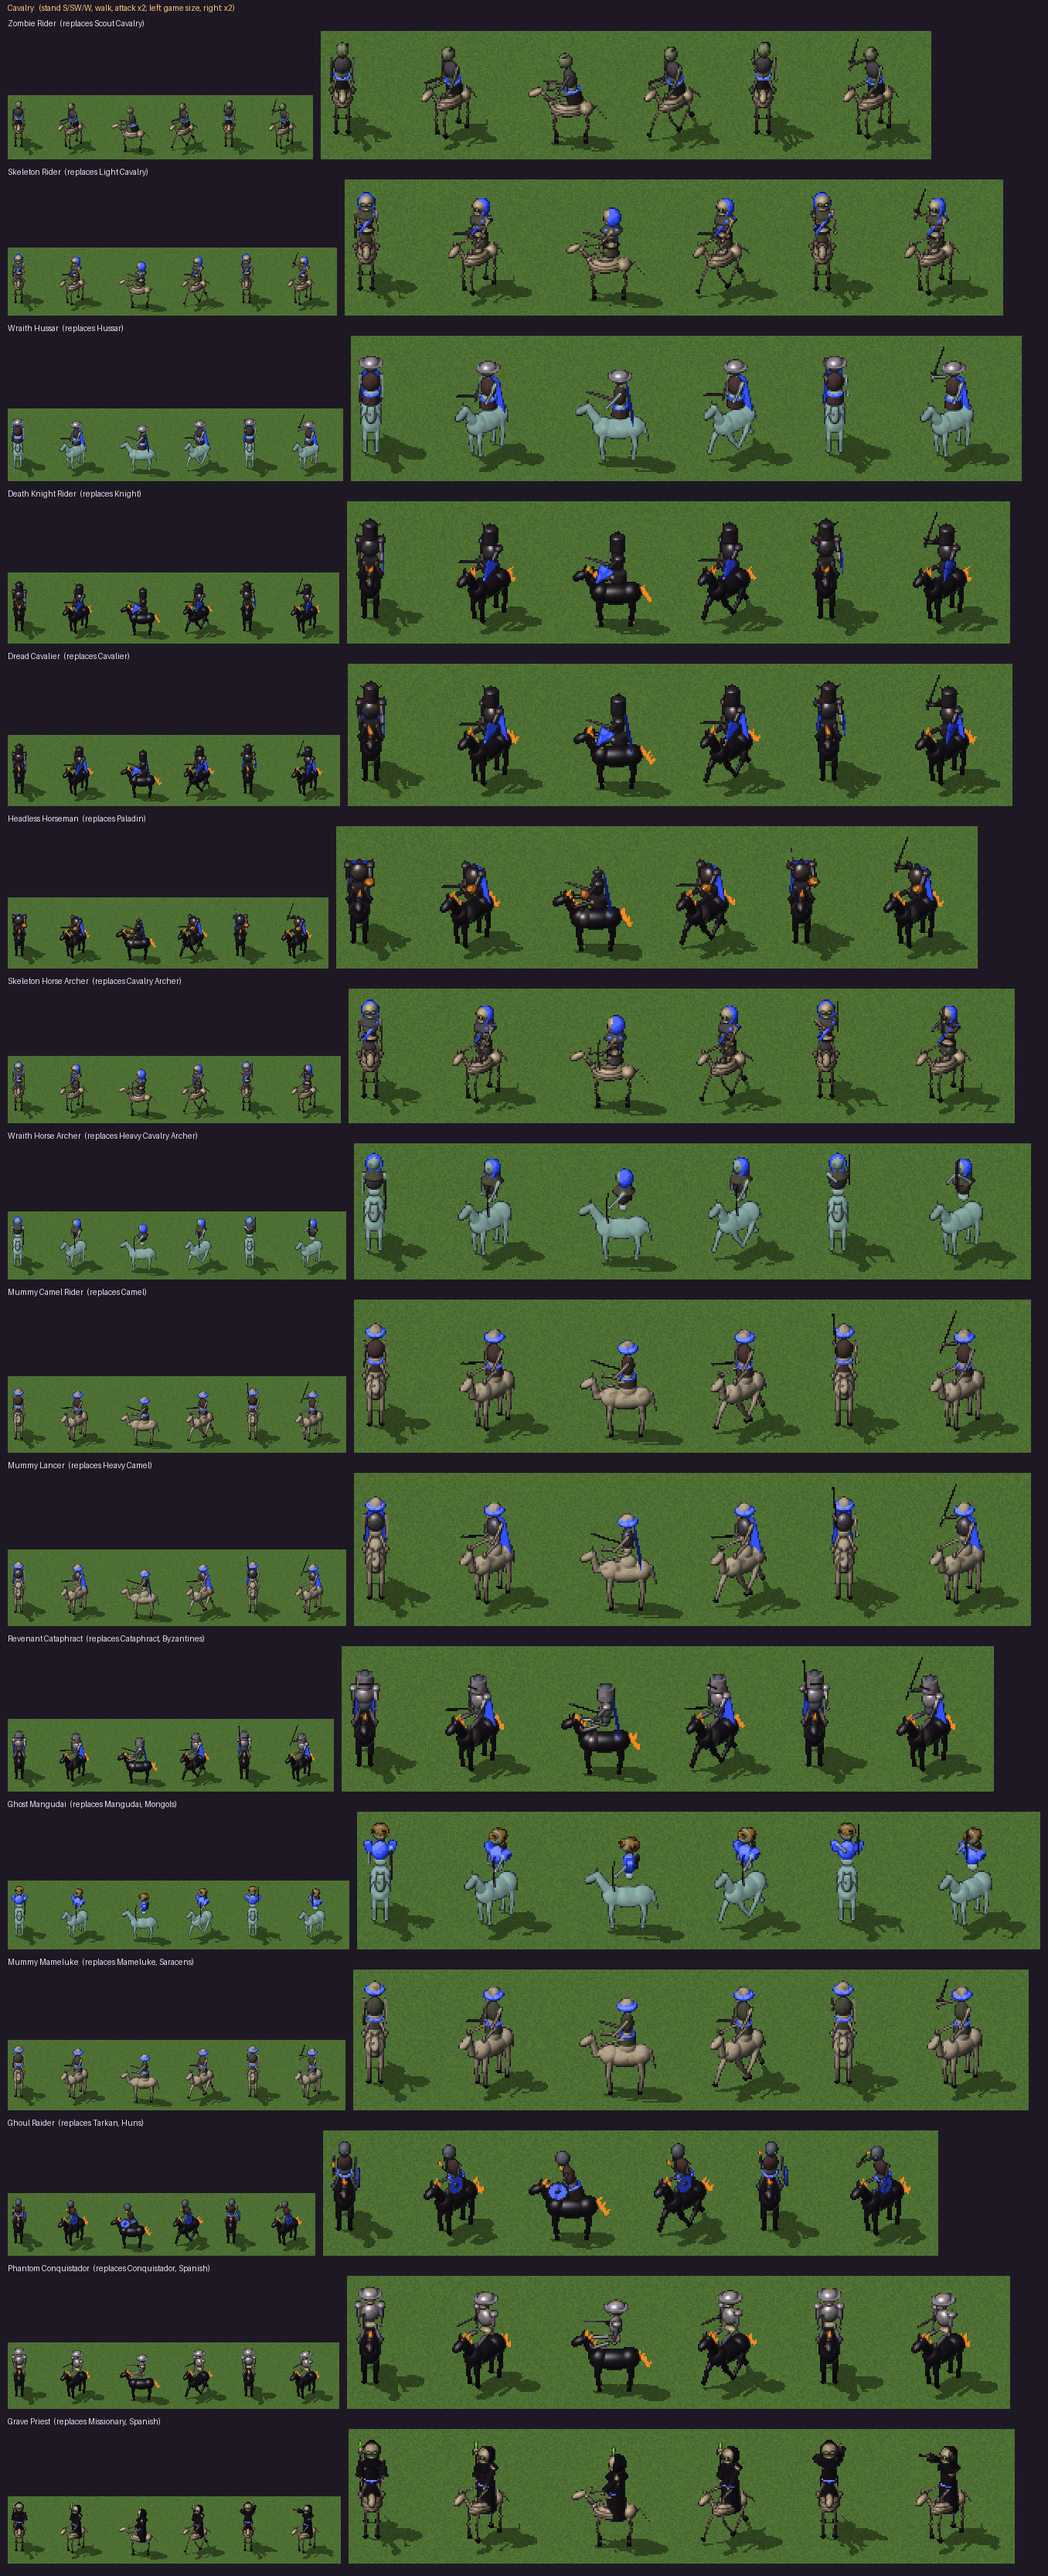
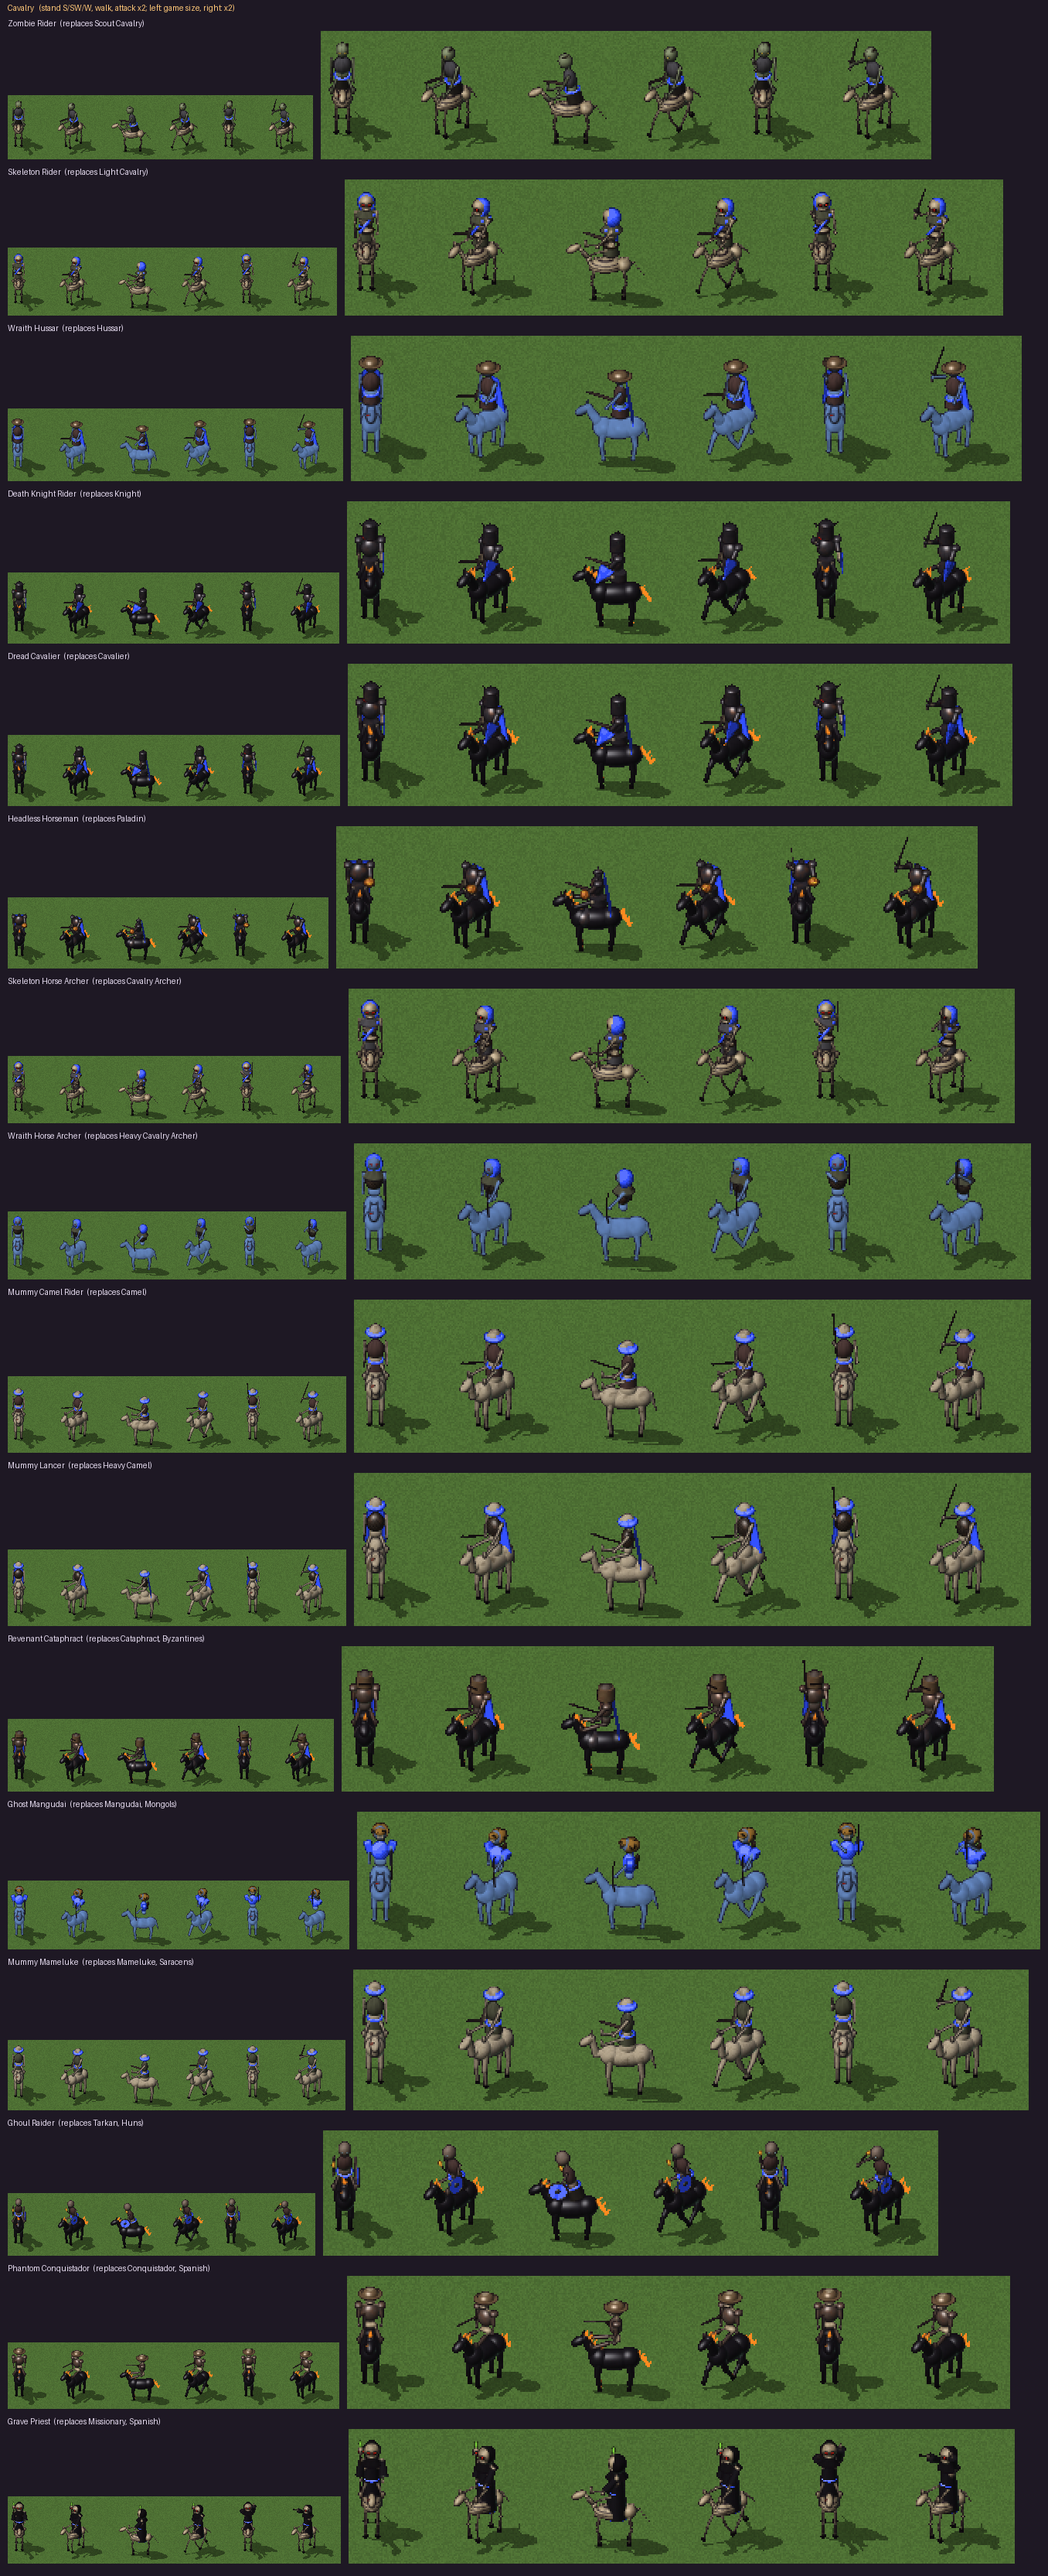
Drop the silver from the units and give them red eyes instead of green
The player found the silvery colours robotic. Plate armour is now dark,
rusted iron, helmets tarnished bronze, chainmail and blades rusty. Skins
that looked silver in the night are human dead-flesh tones: the Vampire
Lord a warm pale face (no shine), ghouls pallid, the draugr a leathery
corpse, the jiangshi yellowed. Ghosts, the Banshee and the ghost horses are
a spectral blue instead of silvery white; the hot-rod hearse's chrome is
brass.

Every eye that glowed green now glows red: skeletons, mummies, ghosts, bone
horses, mummy camels, dire wolves and the skeletal stag, the gargoyle
bombard, the skulls on the ships and the Bone Dragon's skull.

diff --git a/tools/aoh/creatures.py b/tools/aoh/creatures.py
@@ -123,7 +123,12 @@ def spectral(length: float, seed=0, top=P.hexrgb("#dcf0fc"), bottom=P.hexrgb("#3
     return S.Material(color=color, glow=glow, vivid=0.85)
 
 
-def chainmail(base=P.hexrgb("#7a7a84"), seed=0) -> S.Material:
+PLATE = P.hexrgb("#5e4a3e")  # armour: dark, rusted iron (the player asked for no silver)
+BRONZE = P.hexrgb("#7a5c36")  # helmets: tarnished bronze
+BLADE = P.hexrgb("#6a5e54")  # blades: dull, rusty iron
+
+
+def chainmail(base=P.hexrgb("#5e4c3c"), seed=0) -> S.Material:
     base = np.asarray(base, float)
 
     def color(look):
@@ -176,7 +181,7 @@ class Body:
     arms_out: float = 0.0  # degrees the arms reach forward at rest (zombies, jiangshi)
     floating: bool = False  # no legs (ghosts, banshees)
     skin: Optional[S.Material] = None
-    eye: tuple = (0.61, 1.0, 0.42)  # the eyes' glow colour
+    eye: tuple = (1.0, 0.14, 0.06)  # the eyes' glow colour
     size: float = 1.0  # the head's size
     sculpted: bool = False  # a skeleton's skull modelled bone by bone (brow, cheekbones, sockets), not one ball
 
@@ -184,21 +189,21 @@ class Body:
 SKIN = {
     "zombie": lambda s: replace(flesh(P.hexrgb("#a2b886"), P.hexrgb("#5e6e48"), s, wounds=0.6, stitches=True),
                                 vivid=0.7),
-    "ghoul": lambda s: flesh(P.hexrgb("#8090a0"), P.hexrgb("#3e4656"), s, wounds=0.3),
+    "ghoul": lambda s: replace(flesh(P.hexrgb("#b09a84"), P.hexrgb("#5a4a40"), s, wounds=0.3), vivid=0.55),
     "imp": lambda s: flesh(P.hexrgb("#8a2a22"), P.hexrgb("#3a0e10"), s),
     "werewolf": lambda s: fur(P.hexrgb("#6a5a4a"), P.hexrgb("#2a221c"), s),
     "mummy": lambda s: bandage(seed=s),
-    "vampire": lambda s: flesh(P.hexrgb("#d8d0d8"), P.hexrgb("#8a7a90"), s),
+    "vampire": lambda s: replace(flesh(P.hexrgb("#ead2c2"), P.hexrgb("#9a746a"), s), shine=0.0, vivid=0.65),
     "batman": lambda s: fur(P.hexrgb("#6a564c"), P.hexrgb("#2a1e1c"), s),
-    "draugr": lambda s: flesh(P.hexrgb("#6e7c86"), P.hexrgb("#2e363e"), s, wounds=0.4),
-    "jiangshi": lambda s: flesh(P.hexrgb("#a8b8a4"), P.hexrgb("#5a6858"), s),
-    "ghost": lambda s: ghostly(seed=s),
-    "banshee": lambda s: ghostly(P.hexrgb("#d6e4ee"), seed=s),
+    "draugr": lambda s: replace(flesh(P.hexrgb("#7a6a5e"), P.hexrgb("#2e2420"), s, wounds=0.4), vivid=0.55),
+    "jiangshi": lambda s: replace(flesh(P.hexrgb("#c4b494"), P.hexrgb("#6a5c48"), s), vivid=0.55),
+    "ghost": lambda s: replace(ghostly(P.hexrgb("#7eaaee"), seed=s), vivid=0.9),
+    "banshee": lambda s: replace(ghostly(P.hexrgb("#8ab2f0"), seed=s), vivid=0.9),
     "phantom": lambda s: replace(ghostly(P.hexrgb("#d4ecf8"), seed=s), vivid=0.85),
 }
-EYES = {"skeleton": (0.61, 1.0, 0.42), "zombie": (1.0, 0.85, 0.3), "ghoul": (0.75, 0.95, 1.0),
-        "imp": (1.0, 0.75, 0.15), "werewolf": (1.0, 0.7, 0.1), "mummy": (0.55, 1.0, 0.45), "vampire": (1.0, 0.15, 0.1),
-        "batman": (1.0, 0.3, 0.15), "calavera": (1.0, 0.6, 0.15), "ghost": (0.4, 1.0, 0.95),
+EYES = {"skeleton": (1.0, 0.14, 0.06), "zombie": (1.0, 0.85, 0.3), "ghoul": (0.75, 0.95, 1.0),
+        "imp": (1.0, 0.75, 0.15), "werewolf": (1.0, 0.7, 0.1), "mummy": (1.0, 0.14, 0.06), "vampire": (1.0, 0.15, 0.1),
+        "batman": (1.0, 0.3, 0.15), "calavera": (1.0, 0.6, 0.15), "ghost": (1.0, 0.14, 0.06),
         "jiangshi": (0.9, 0.95, 0.85), "knight": (1.0, 0.12, 0.05), "draugr": (0.45, 0.8, 1.0),
         "banshee": (0.85, 0.95, 1.0), "phantom": (1.0, 0.14, 0.06)}
 
@@ -407,7 +412,7 @@ def _armour_shapes(b: Body, g: Gear, seed: int) -> list:
     sh = b.shoulder
     out = []
     if g.armour == "plate":
-        plate = P.metal(P.hexrgb("#3a363e") if b.kind == "knight" else P.hexrgb("#8e8e98"), rust=0.6, seed=seed)
+        plate = P.metal(P.hexrgb("#3a363e") if b.kind == "knight" else PLATE, rust=0.75, seed=seed)
         out += [S.ball((0, 0.4, sh - 3.3), (4.0, 3.0, 4.2), plate).clip((0, 0, -1), 3.6),
                 S.ball((b.arm_x + 0.3, 0, sh + 0.2), (2.0, 2.2, 1.5), plate),
                 S.ball((-b.arm_x - 0.3, 0, sh + 0.2), (2.0, 2.2, 1.5), plate)]
@@ -502,7 +507,7 @@ def _cloth_shapes(b: Body, g: Gear, seed: int) -> list:
             out.append(m)
         return out
     if g.cloth == "dress":
-        gown = ghostly(P.hexrgb("#c8d8e0"), seed + 2) if b.kind in ("ghost", "banshee") else drab
+        gown = replace(ghostly(P.hexrgb("#7aa6ea"), seed + 2), vivid=0.9) if b.kind in ("ghost", "banshee") else drab
         return [S.rod((0, 0, sh + 0.2), (0, 0, -1.0), 3.0, gown, 6.4), _belt(b, h + 2.0, True, seed)]
     if g.cloth == "wraps":  # a long Qing robe, dark, a gold hem, the owner's colour in the sash
         dark = cloth(P.hexrgb("#38586a"), seed=seed)
@@ -515,7 +520,7 @@ def _cloth_shapes(b: Body, g: Gear, seed: int) -> list:
 def _helmet_shapes(b: Body, kind: str, seed: int) -> list:
     n = b.neck
     top = n + 3.6 * b.size
-    iron = P.metal(P.hexrgb("#9a9aa6"), rust=0.5, seed=seed + 3)
+    iron = P.metal(BRONZE, rust=0.45, seed=seed + 3)
     dark_iron = P.metal(P.hexrgb("#4a4650"), rust=0.4, seed=seed + 3)
     if kind == "kettle":
         return [S.ball((0, 0.3, top + 0.4), (3.7, 3.9, 2.8), iron).clip((0, 0, -1), -0.2),
@@ -602,7 +607,7 @@ def _forward(up_deg=20.0):
 
 def _blade(length=11.0, width=0.85, m=None, up_deg=20.0, start=1.6) -> list:
     d, up = _forward(up_deg)
-    m = m or P.metal(P.hexrgb("#9696a2"), rust=0.6)
+    m = m or P.metal(BLADE, rust=0.7)
     base = d * start
     tip = base + d * length
     t = 0.22
@@ -627,7 +632,7 @@ def _shaft(length, back=4.0, up_deg=20.0, r=0.42, m=None) -> list:
 
 def weapon(name: str, seed: int = 0) -> list:
     """What a hand holds, with the grip at the origin, pointing forward (+y) and a little up."""
-    steel = P.metal(P.hexrgb("#9696a2"), rust=0.6, seed=seed)
+    steel = P.metal(BLADE, rust=0.7, seed=seed)
     wood = P.wood(P.hexrgb("#4e3626"), P.hexrgb("#2a1a12"), along=2)
     if name == "sword":
         return _blade(11.0) + _hilt()
@@ -643,7 +648,7 @@ def weapon(name: str, seed: int = 0) -> list:
                        glow=runes, shine=0.8, gloss=30)
         return _blade(17.0, 1.1, m) + _hilt(guard=3.4)
     if name == "katana":
-        return _blade(14.0, 0.55, P.metal(P.hexrgb("#c8ccd4"), seed=seed, shine=0.9), up_deg=28) + \
+        return _blade(14.0, 0.55, P.metal(P.hexrgb("#4e4a50"), rust=0.3, seed=seed, shine=0.8), up_deg=28) + \
             [S.rod(_forward(28)[0] * -2.2, _forward(28)[0] * 1.4, 0.45, P.team(0.3))]
     if name in ("spear", "pike", "javelin"):
         L = {"spear": 18.0, "pike": 26.0, "javelin": 13.0}[name]
@@ -763,7 +768,7 @@ def weapon(name: str, seed: int = 0) -> list:
 def chest_weapon(name: str, seed: int = 0) -> list:
     """A two-handed weapon held across the chest (part "item_c"), pointing forward from the origin."""
     wood = P.wood(P.hexrgb("#4a3020"), P.hexrgb("#24160e"), along=1)
-    steel = P.metal(P.hexrgb("#6a6a74"), rust=0.5, seed=seed)
+    steel = P.metal(P.hexrgb("#4e4238"), rust=0.6, seed=seed)
     if name in ("crossbow", "repeater"):
         out = [S.block((-0.6, -3.0, -0.6), (0.6, 6.0, 0.6), wood)]
         pts = [np.array([x, 5.4 - 0.08 * x * x, 0.0]) for x in np.linspace(-5, 5, 7)]
@@ -830,7 +835,7 @@ def person(key: str, name: str, replaces: str, b: Body, g: Gear = Gear(), attack
                 _limb_shapes(b, knee, ankle, thick * 0.82, thick * 0.66)
             foot_m = b.skin if b.kind not in ("knight",) else P.metal(P.hexrgb("#2a262e"), seed=seed)
             if g.armour == "plate" and b.kind != "knight":
-                foot_m = P.metal(P.hexrgb("#7a7a84"), rust=0.6, seed=seed)
+                foot_m = P.metal(PLATE, rust=0.75, seed=seed)
             shapes.append(S.ball((x, 1.0, 0.7), (1.05, 1.9, 0.8), foot_m))
             if b.kind == "knight" or g.armour == "plate":
                 shapes += S.limb((x, 0.2, h * 0.54 + 1.4), (x, 0.0, 2.0), 1.05, foot_m, 0.9)
@@ -900,11 +905,11 @@ def person(key: str, name: str, replaces: str, b: Body, g: Gear = Gear(), attack
             _limb_shapes(b, elbow, tuple(hand), thick * 0.85, thick * 0.72)
         hand_m = b.skin
         if b.kind == "knight" or g.armour == "plate":
-            hand_m = P.metal(P.hexrgb("#2a262e") if b.kind == "knight" else P.hexrgb("#7a7a84"), seed=seed)
+            hand_m = P.metal(P.hexrgb("#2a262e") if b.kind == "knight" else PLATE, rust=0.75, seed=seed)
             shapes += S.limb((x, 0, sh - 0.8), elbow, thick * 1.25, hand_m, thick * 1.15)
         if g.cloth in ("robe", "wraps", "dress", "shroud"):  # wide sleeves, the robe's colour
             sleeve = {"robe": cloth(P.hexrgb("#24202a"), seed=seed), "wraps": cloth(P.hexrgb("#38586a"), seed=seed),
-                      "dress": ghostly(P.hexrgb("#c8d8e0"), seed + 2) if b.kind in ("ghost", "banshee")
+                      "dress": replace(ghostly(P.hexrgb("#7aa6ea"), seed + 2), vivid=0.9) if b.kind in ("ghost", "banshee")
                       else cloth(DRAB[seed % len(DRAB)], seed=seed),
                       "shroud": spectral(10.0, seed + 2)}[g.cloth]
             shapes.append(S.rod((x, 0, sh - 0.4), (x + sign * 0.5, 0.6, sh - 7.2), thick * 1.5, sleeve,

diff --git a/tools/aoh/beasts.py b/tools/aoh/beasts.py
@@ -28,7 +28,7 @@ from .geometry import Part
 from .units import Unit
 
 RED_EYE = P.hexrgb("#ff3a1a")
-GREEN_EYE = P.hexrgb("#9cff6a")
+GREEN_EYE = RED_EYE  # the player asked for red eyes instead of green ones
 
 
 def _eyes(skin, glow, x=1.1, z=0.5, r=0.42):
@@ -276,7 +276,7 @@ def hotrod_hearse(key="cobra_car") -> Unit:
         return np.where(f, 1.4, 0.55)
     paint = P.team(0.55, flames)
     paint.shine, paint.gloss = 0.8, 40
-    chrome = P.metal(P.hexrgb("#c8c8d0"), seed=3, shine=1.0)
+    chrome = P.metal(P.hexrgb("#b08a3a"), seed=3, shine=1.0)  # brass, not chrome
     glass = S.Material(color=lambda l: P.mix(P.hexrgb("#1e2a30"), P.hexrgb("#5a7a80"), 0.4 * P.noise(l.p, 2.0, 4)),
                        shine=0.9, gloss=50)
     body = [S.hull([(x, y, z) for x in (-7.5, 7.5) for y, z0, z1 in ((-19.0, 4.0, 10.0), (18.0, 4.0, 8.5))
@@ -318,7 +318,7 @@ def bone_dragon(key="dragon") -> Unit:
     neck_pts = [np.array([0, 13.0, 1.0]) + (head_c - np.array([0, 15.0, 1.0])) * f for f in np.linspace(0, 1, 7)]
     neck = Part("neck", pivot=(0, 14.0, 0), boxes=[S.ball(tuple(p), 1.6 - 0.5 * f, bone)
                                                      for p, f in zip(neck_pts, np.linspace(0, 1, 7))])
-    skull_m = C.eyes_material(bone, [(-2.6, 1.0, 1.0, 0.8), (2.6, 1.0, 1.0, 0.8)], P.SLIME, 0.6)
+    skull_m = C.eyes_material(bone, [(-2.6, 1.0, 1.0, 0.8), (2.6, 1.0, 1.0, 0.8)], RED_EYE, 0.6)
     head = Part("head", pivot=tuple(head_c - (0, 2.0, 0)), boxes=[
         S.Ellipsoid(skull_m, S._orient(head_c), radii=(4.4, 5.4, 3.8)),
         S.hull([head_c + (sx * 2.6, 3.0, -0.8) for sx in (-1, 1)] + [head_c + (sx * 1.6, 9.2, -1.0) for sx in (-1, 1)] +

diff --git a/tools/aoh/ghostships.py b/tools/aoh/ghostships.py
@@ -276,7 +276,7 @@ def death_longboat(key="longboat") -> Unit:
     neck = [np.array([0, L / 2 * 0.85, 5.0]), np.array([0, L / 2 * 0.98, 9.0]), np.array([0, L / 2 * 0.95, 13.0])]
     for a, b in zip(neck, neck[1:]):
         parts += S.limb(tuple(a), tuple(b), 1.0, bone, 0.8)
-    parts.append(S.Ellipsoid(C.eyes_material(bone, [(-0.9, 0.5, 0.5, 0.4), (0.9, 0.5, 0.5, 0.4)], P.SLIME, 0.6),
+    parts.append(S.Ellipsoid(C.eyes_material(bone, [(-0.9, 0.5, 0.5, 0.4), (0.9, 0.5, 0.5, 0.4)], P.hexrgb("#ff2410"), 0.6),
                              S._orient(neck[-1] + (0, 1.6, 0.2)), radii=(1.5, 2.6, 1.4)))
     for sx in (-1, 1):
         for y in np.linspace(-L * 0.3, L * 0.3, 6):
@@ -301,7 +301,7 @@ def shell_ship(key="turtle_ship") -> Unit:
         a = 2 * math.pi * k / 10
         base = np.array([math.cos(a) * W * 0.3, math.sin(a) * L * 0.3 - 1.0, 9.0])
         parts.append(S.rod(tuple(base), tuple(base + (0, 0, 2.6)), 0.6, bone, 0.05))
-    parts.append(S.Ellipsoid(C.eyes_material(bone, [(-1.2, 0.6, 0.6, 0.5), (1.2, 0.6, 0.6, 0.5)], P.SLIME, 0.6),
+    parts.append(S.Ellipsoid(C.eyes_material(bone, [(-1.2, 0.6, 0.6, 0.5), (1.2, 0.6, 0.6, 0.5)], P.hexrgb("#ff2410"), 0.6),
                              S._orient((0, L / 2 * 0.88, 6.0)), radii=(3.0, 3.4, 2.6)))
     weapon = Part("weapon", pivot=(0, L / 2 * 0.9, 6.0), boxes=_cannons(np.linspace(-L * 0.2, L * 0.2, 3), W / 2 * 0.95,
                                                                           5.0, seed))

diff --git a/tools/aoh/cavalry.py b/tools/aoh/cavalry.py
@@ -12,6 +12,7 @@ creatures.py people seated as Age of Minecraft seated its riders (mounted.mount)
 from __future__ import annotations
 
 import math
+from dataclasses import replace
 from typing import Optional
 
 import numpy as np
@@ -50,7 +51,7 @@ def steed(kind: str, seed: int = 0, barding: Optional[str] = None, saddle: bool 
     if kind == "bonehorse":
         skin = P.bone(seed)
     elif kind == "ghosthorse":
-        skin = C.ghostly(P.hexrgb("#a8d8d0"), seed)
+        skin = replace(C.ghostly(P.hexrgb("#76a2e6"), seed), vivid=0.9)
     elif kind == "mummycamel":
         skin = C.bandage(seed=seed)
     else:  # nightmare
@@ -58,8 +59,8 @@ def steed(kind: str, seed: int = 0, barding: Optional[str] = None, saddle: bool 
                                                 0.4 * P.fbm(l.p, 2.0, seed)), shine=0.45, gloss=24)
     camel = kind == "mummycamel"
     bony = kind == "bonehorse"
-    eye = {"nightmare": FLAME, "bonehorse": P.hexrgb("#9cff6a"), "ghosthorse": P.hexrgb("#e0fffa"),
-           "mummycamel": P.hexrgb("#9cff6a")}[kind]
+    eye = {"nightmare": FLAME, "bonehorse": P.hexrgb("#ff2410"), "ghosthorse": P.hexrgb("#ff2410"),
+           "mummycamel": P.hexrgb("#ff2410")}[kind]
     back = 17.0 if not camel else 20.0
     root = Part("root")
     body_shapes = []

diff --git a/tools/aoh/engines.py b/tools/aoh/engines.py
@@ -202,7 +202,7 @@ def gargoyle_bombard(key="bombard_cannon") -> Unit:
     mouth = S.mat(P.SLIME, glow=1.0)
     gm = C.eyes_material(P.mottled(P.hexrgb("#4a4650"), P.hexrgb("#24222a"), 1.5, 0.4, seed), [(-1.4, 1.2, 0.6, 0.5),
                                                                                                (1.4, 1.2, 0.6, 0.5)],
-                         P.SLIME, 0.6)
+                         P.hexrgb("#ff2410"), 0.6)
     barrel += [S.Ellipsoid(gm, S._orient(head_c), radii=(3.6, 3.4, 3.4)).clip((0, 1, -0.2), 1.6),
                S.ball(tuple(head_c + (0, 1.0, -0.4)), (2.0, 1.0, 1.6), mouth),
                S.rod(tuple(head_c + (-2.4, -0.6, 2.4)), tuple(head_c + (-3.8, -2.0, 6.0)), 0.8,

diff --git a/tools/aoh/undead.py b/tools/aoh/undead.py
@@ -25,7 +25,7 @@ ARM_X = 4.6  # shoulder joints' distance from the middle
 LEG_X = 2.0
 
 
-def _skull_material(glow=P.hexrgb("#9cff6a"), seed: int = 0) -> S.Material:
+def _skull_material(glow=P.hexrgb("#ff2410"), seed: int = 0) -> S.Material:
     """Bone with deep eye sockets, each holding a small glowing light, a nose hole and a row of teeth."""
     b = P.bone(seed)
 
